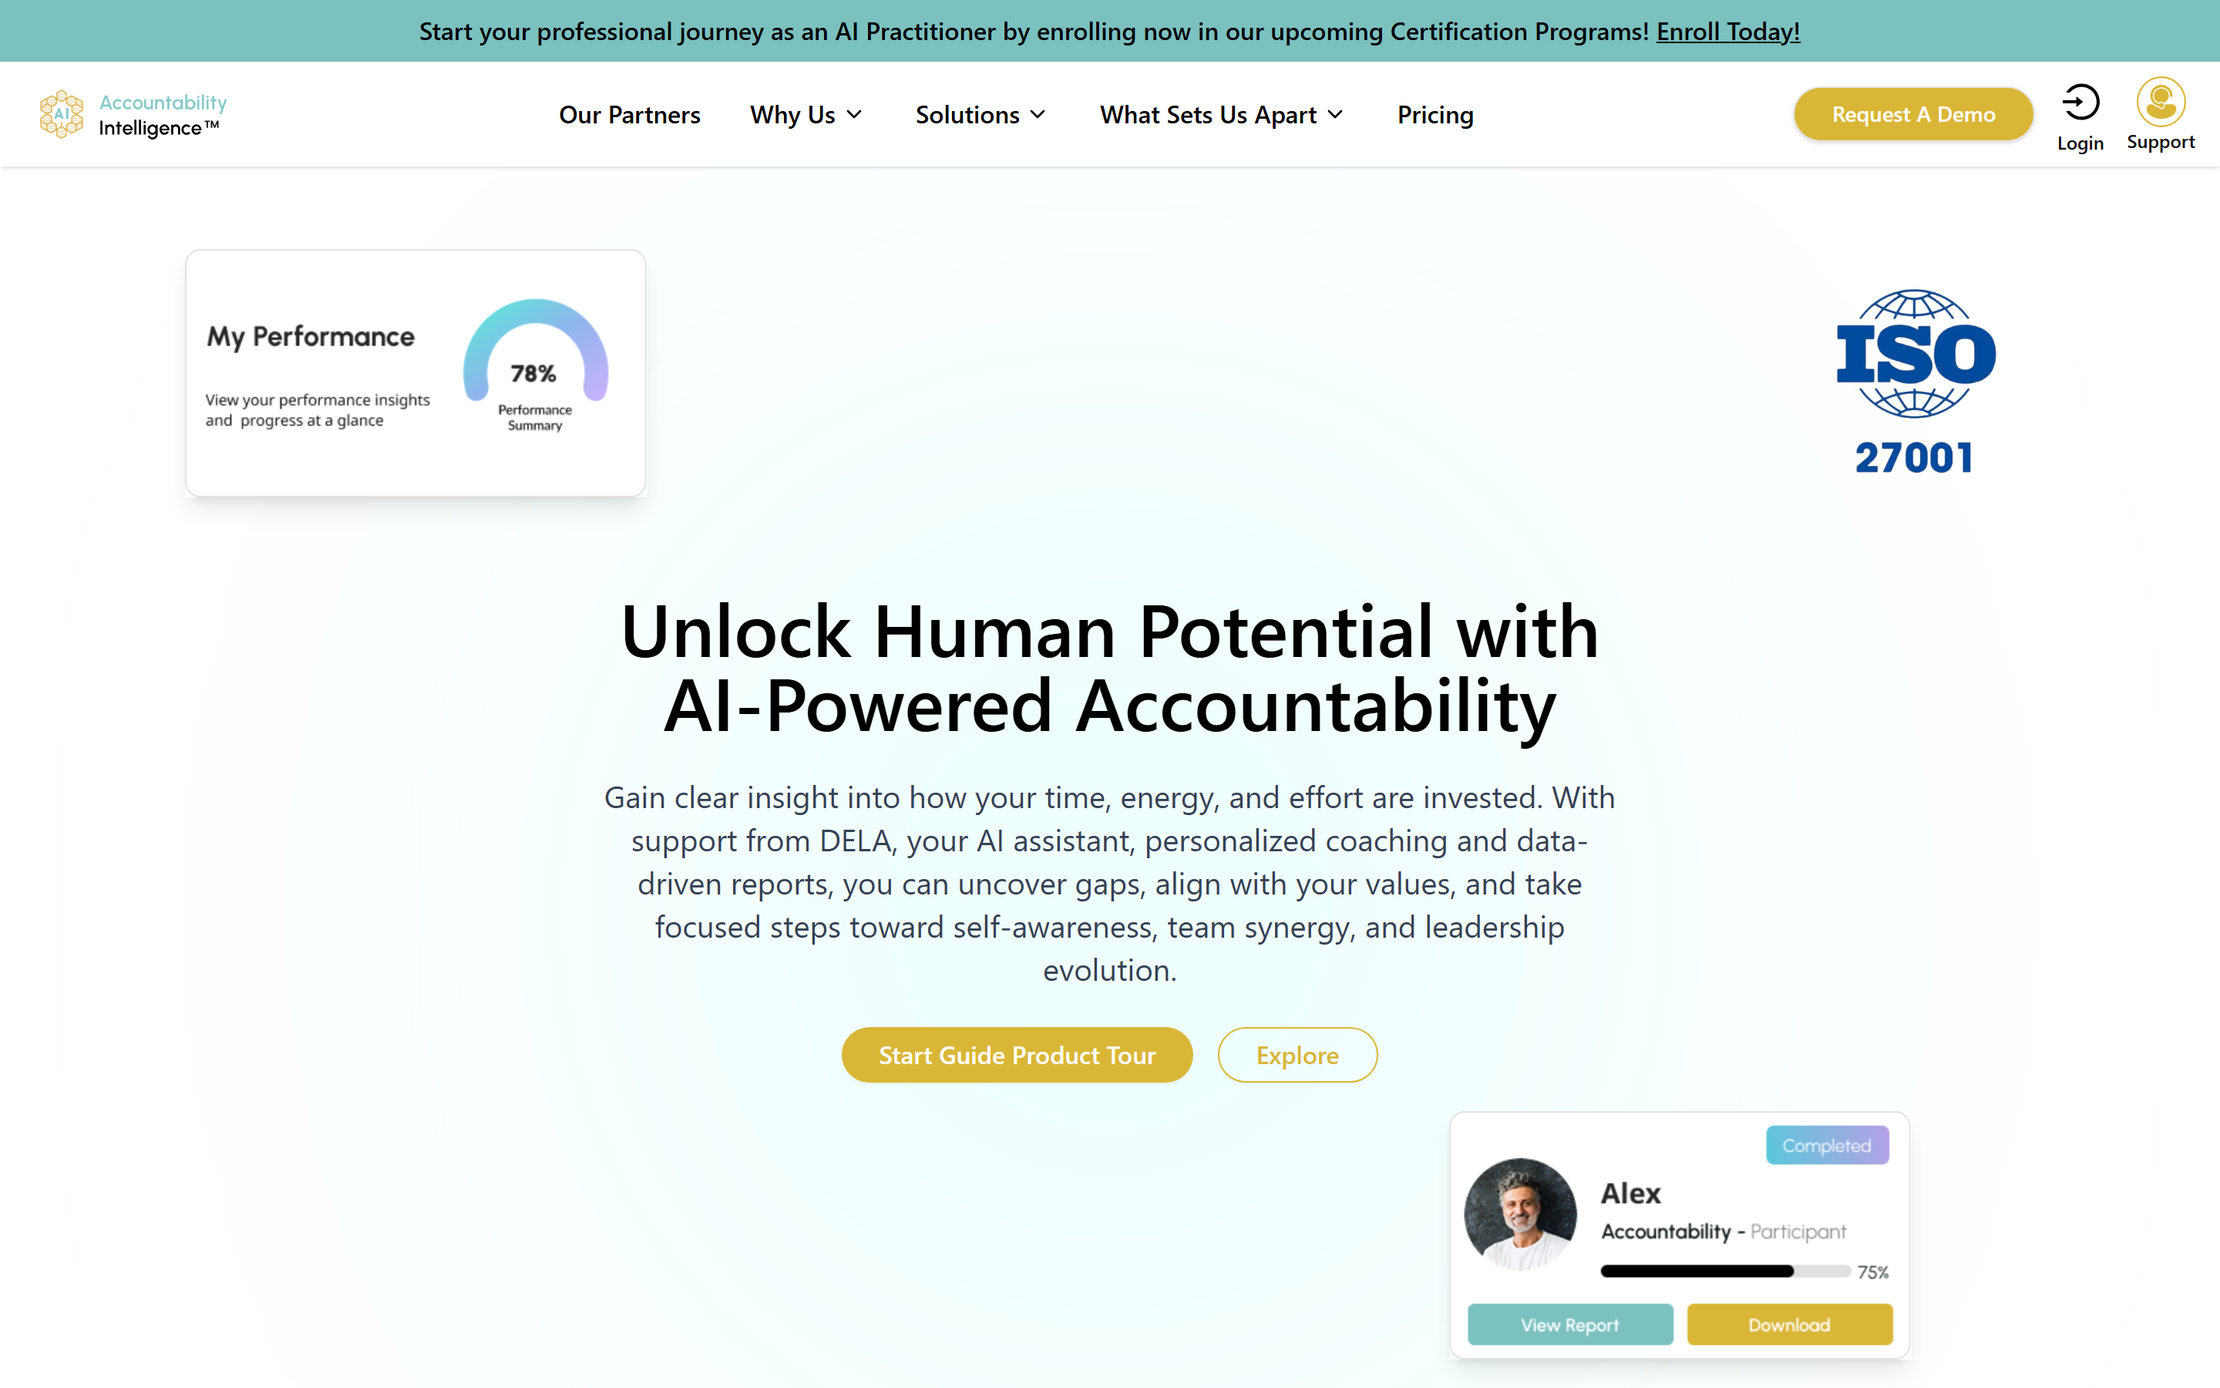
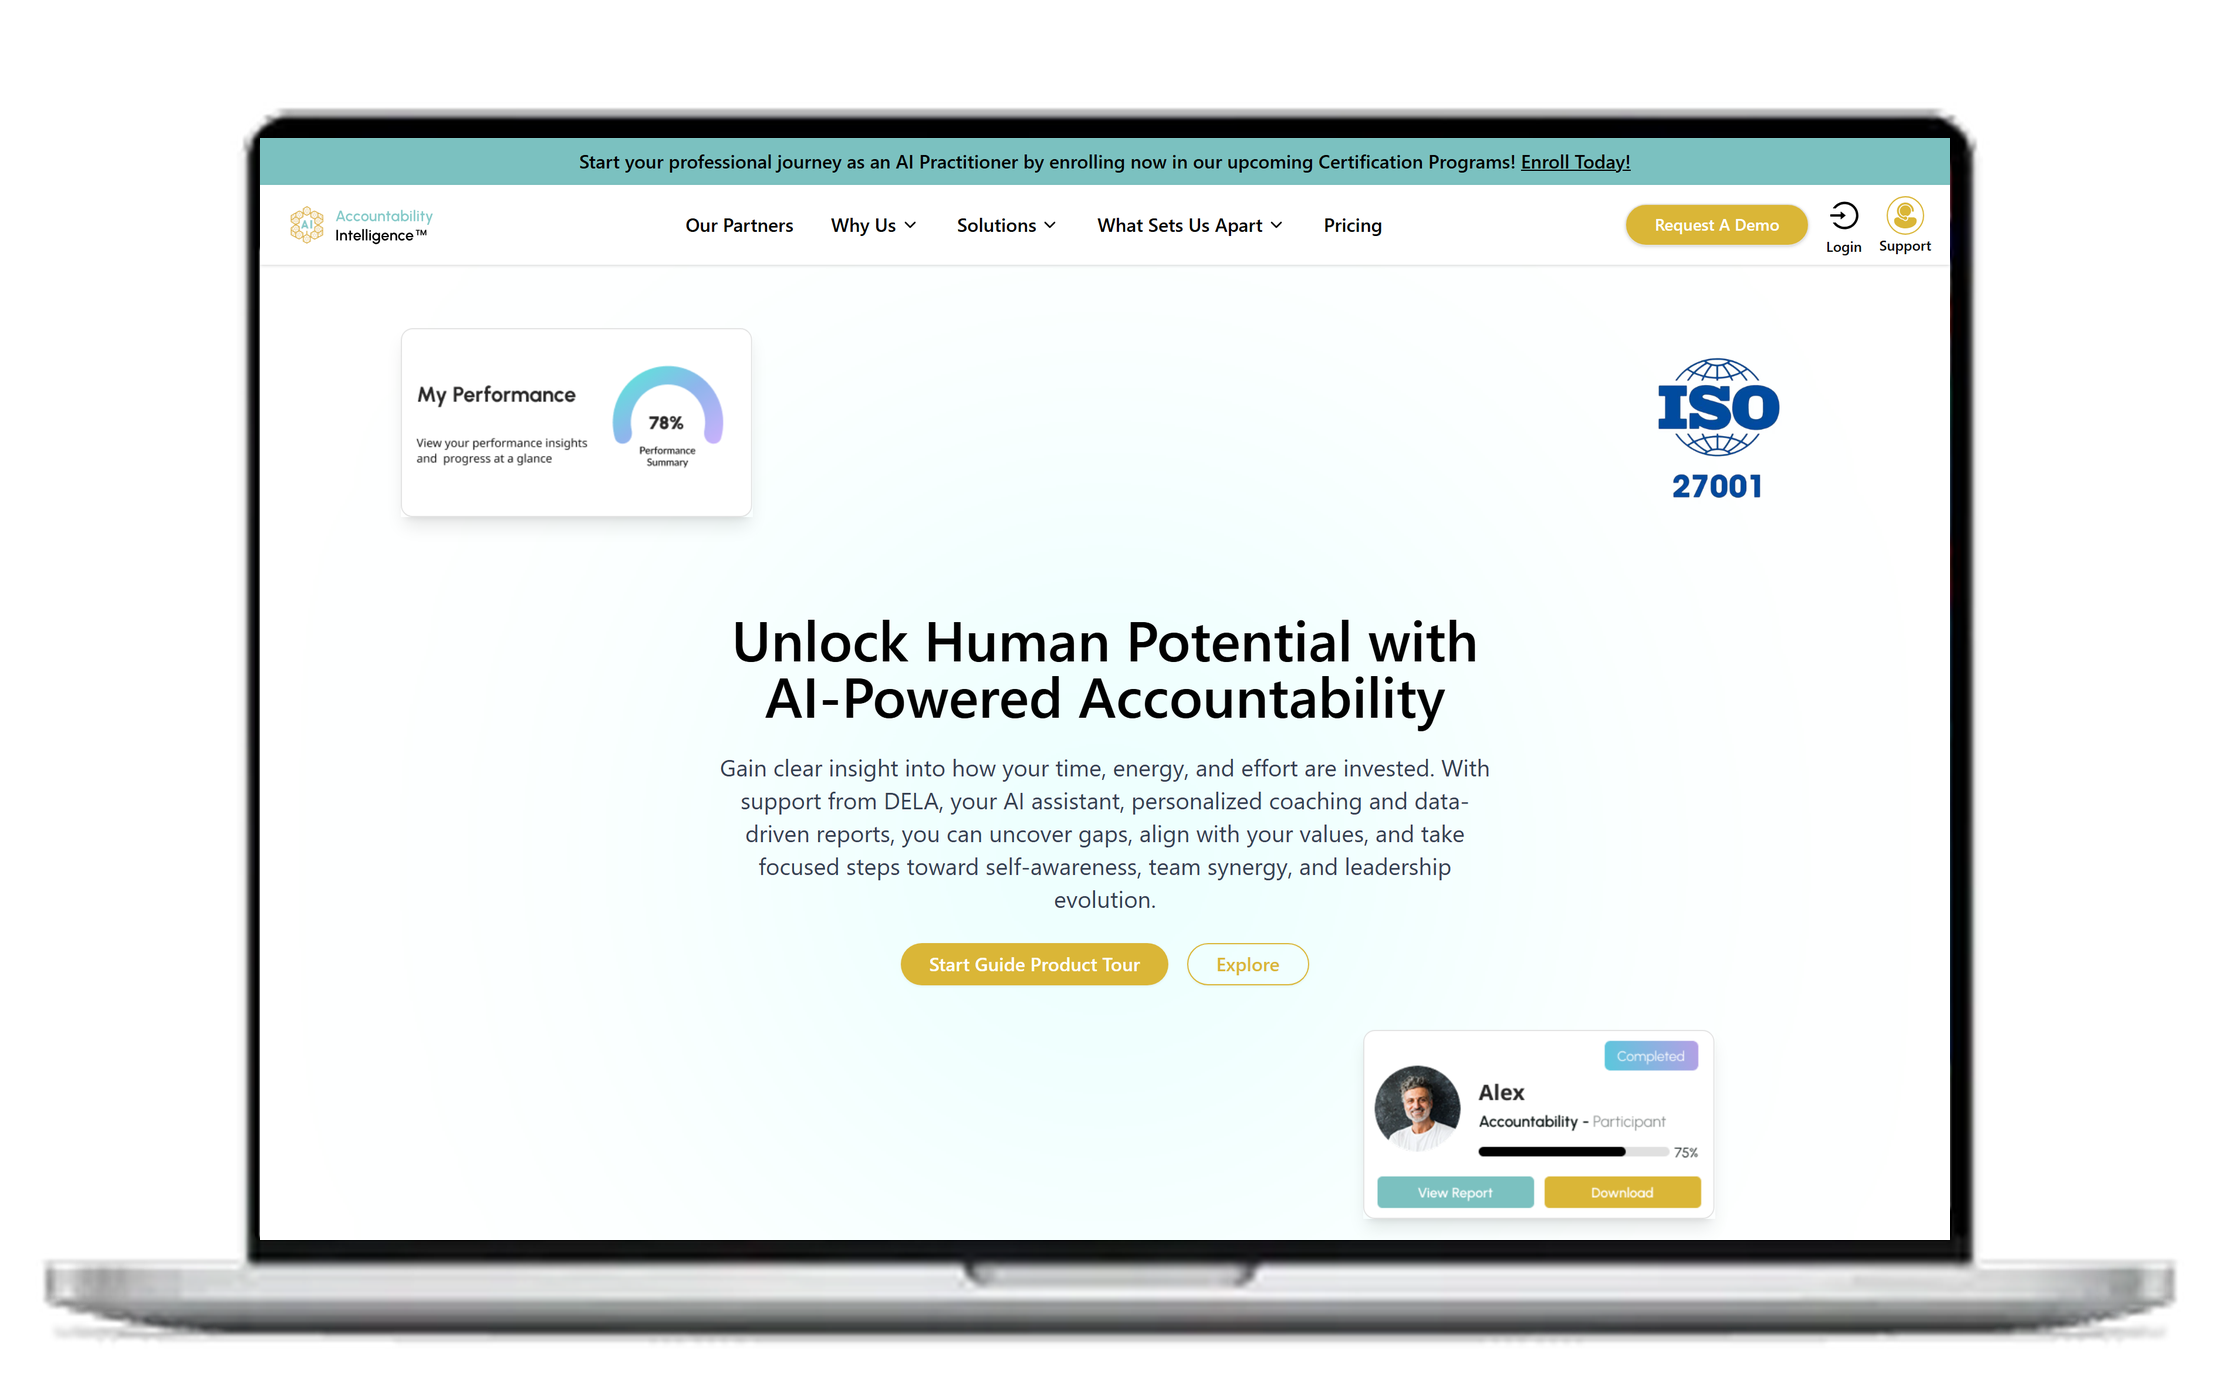
AIA: frame the new capture in the laptop mockup the other nine use
Founder, seeing the flat browser screenshot: "should be frame in laptop".

THE FRAME IS THE REAL ONE, reused rather than redrawn. Twenty-four of the
original mockups share a byte-identical laptop, so matching its siblings means
compositing into that template, not approximating it.

THE SCREEN RECTANGLE WAS MEASURED, not taken on trust. Every pair of same-size
mockups was diffed and the differing regions unioned: the frame is identical
between them, so whatever differs IS the screen. On the 675x419 template that is
(79, 42, 593, 377), 514x335, aspect 1.534.

1.534 is NOT 16:10, so the page was RE-CAPTURED at 1440x939 CSS at device pixel
ratio 2 rather than squeezing the earlier 16:10 shot into the frame. A page
distorted to fit its frame is worse than a soft one.

VERIFIED THE PASTE COVERS THE SCREEN, because the union of diffs is a lower
bound and a rect that is too small leaves a sliver of the template's own page
showing at the edges. Pasted solid magenta and sampled 990 points in a ring just
outside the paste: zero bright pixels, so the bezel surrounds it cleanly.

THE TRADE, stated rather than hidden: the frame is upscaled 3.29x and is
slightly soft. It is smooth metal gradient and rounded corners, which survives
upscaling far better than text, while the screen content stays sharp. Against
the 346x214 this replaces it is not close.

Result is 2220x1378, aspect 1.6110, byte-for-byte the same aspect as its
siblings at 675x419.
[…]

Changed region(s): [[0.0, 0.0, 1.0, 0.9985], [0.7149, 0.7489, 0.777, 0.7801]]

diff --git a/tools/frame-in-laptop.py b/tools/frame-in-laptop.py
@@ -1,0 +1,61 @@
+"""Composite a screenshot into the shared laptop mockup used by the case studies.
+
+    python tools/frame-in-laptop.py <screenshot.png> <out.png> [template.png]
+
+WHY THE TEMPLATE IS REUSED RATHER THAN REDRAWN. Twenty-four of the original
+case-study mockups share a byte-identical laptop frame. Reusing it is the only
+way a refreshed image matches the ones beside it; a redrawn frame is an
+approximation and reads as one.
+
+HOW THE SCREEN RECTANGLE WAS MEASURED, so nobody re-guesses it. Every pair of
+same-size mockups was diffed and the differing regions unioned: the frame is
+identical between them, so whatever differs IS the screen. On the 675x419
+template that gives (79, 42, 593, 377), 514x335, aspect 1.534.
+
+1.534 IS NOT 16:10. Capture at the screen's aspect rather than squeezing a 16:10
+shot into it, or the page is visibly distorted inside the frame. With
+tools/capture-page.py, that means a CSS viewport of 1440 x 939.
+
+THE TRADE, which is real and worth knowing: the frame is upscaled about 3.3x to
+reach 2220px and will be slightly soft. It is smooth metal gradient and rounded
+corners, which survives upscaling far better than text does, while the screen
+content, which is what a reader looks at, stays sharp.
+"""
+import os
+import sys
+
+from PIL import Image
+
+SCREEN = (79, 42, 593, 377)   # measured on the 675x419 template; see docstring
+TARGET_W = 2220               # the case-study hero slot at device pixel ratio 2
+
+if len(sys.argv) < 3:
+    raise SystemExit(__doc__)
+
+shot_path, out_path = sys.argv[1], sys.argv[2]
+repo = os.path.dirname(os.path.dirname(os.path.abspath(__file__)))
+template = (sys.argv[3] if len(sys.argv) > 3
+            else os.path.join(repo, 'public', 'work', 'beyorch.png'))
+
+tpl = Image.open(template).convert('RGBA')
+scale = TARGET_W / tpl.size[0]
+target = (TARGET_W, int(round(tpl.size[1] * scale)))
+sx0, sy0, sx1, sy1 = [int(round(v * scale)) for v in SCREEN]
+sw, sh = sx1 - sx0, sy1 - sy0
+
+with Image.open(shot_path) as s:
+    shot = s.convert('RGB').copy()
+
+want = sw / sh
+got = shot.size[0] / shot.size[1]
+if abs(want - got) > 0.02:
+    print('WARNING: screenshot aspect %.3f, screen aspect %.3f. It will be '
+          'distorted. Recapture at %d x %d CSS.'
+          % (got, want, 1440, int(round(1440 / want))))
+
+frame = tpl.resize(target, Image.LANCZOS)
+frame.paste(shot.resize((sw, sh), Image.LANCZOS), (sx0, sy0))
+frame.save(out_path, optimize=True)
+print('%s  %dx%d  %dKB'
+      % (out_path, frame.size[0], frame.size[1],
+         os.path.getsize(out_path) // 1024))
